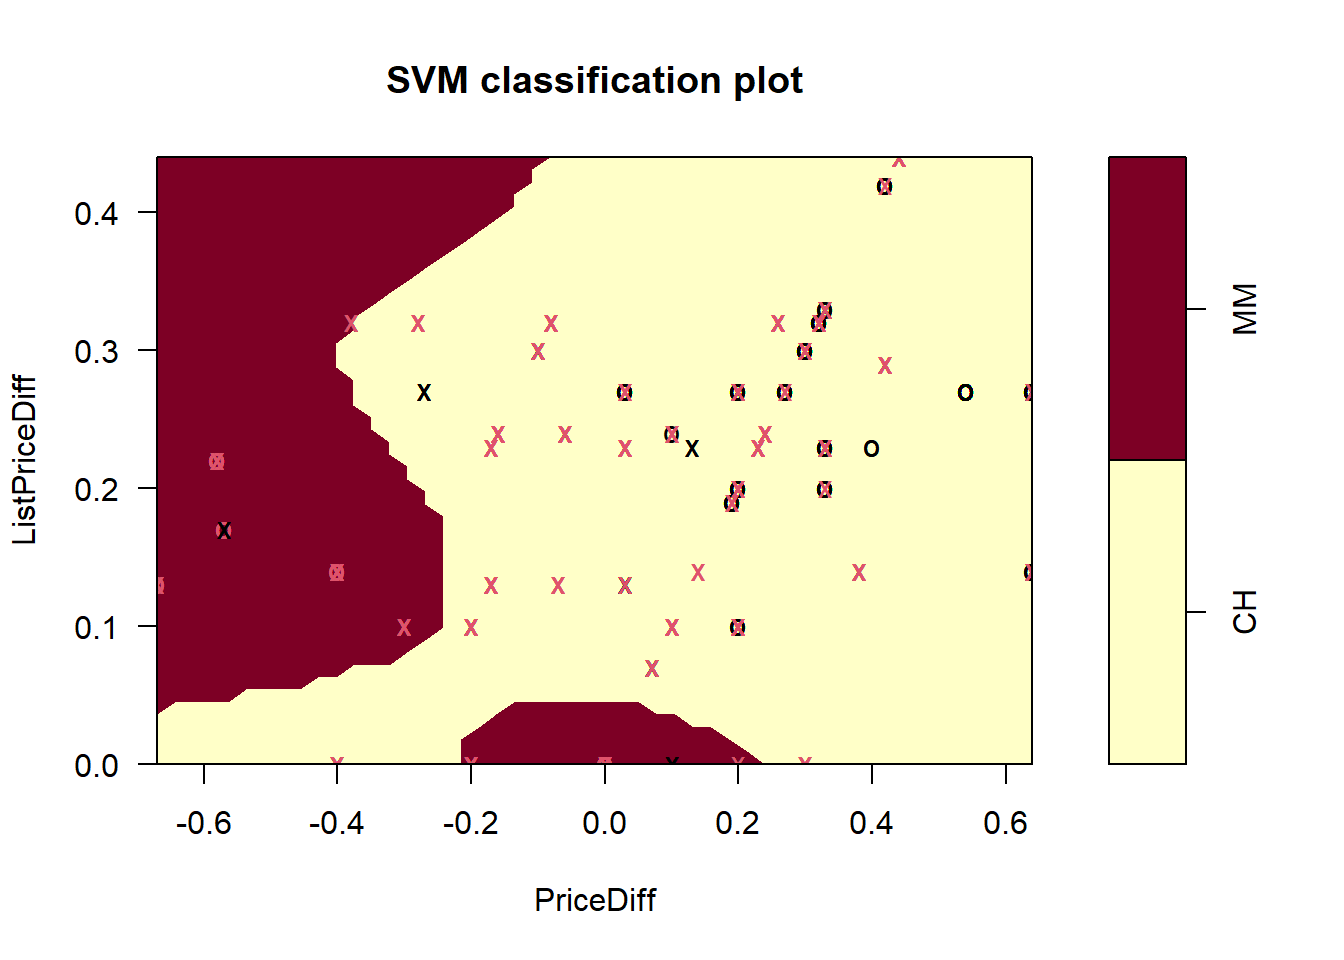
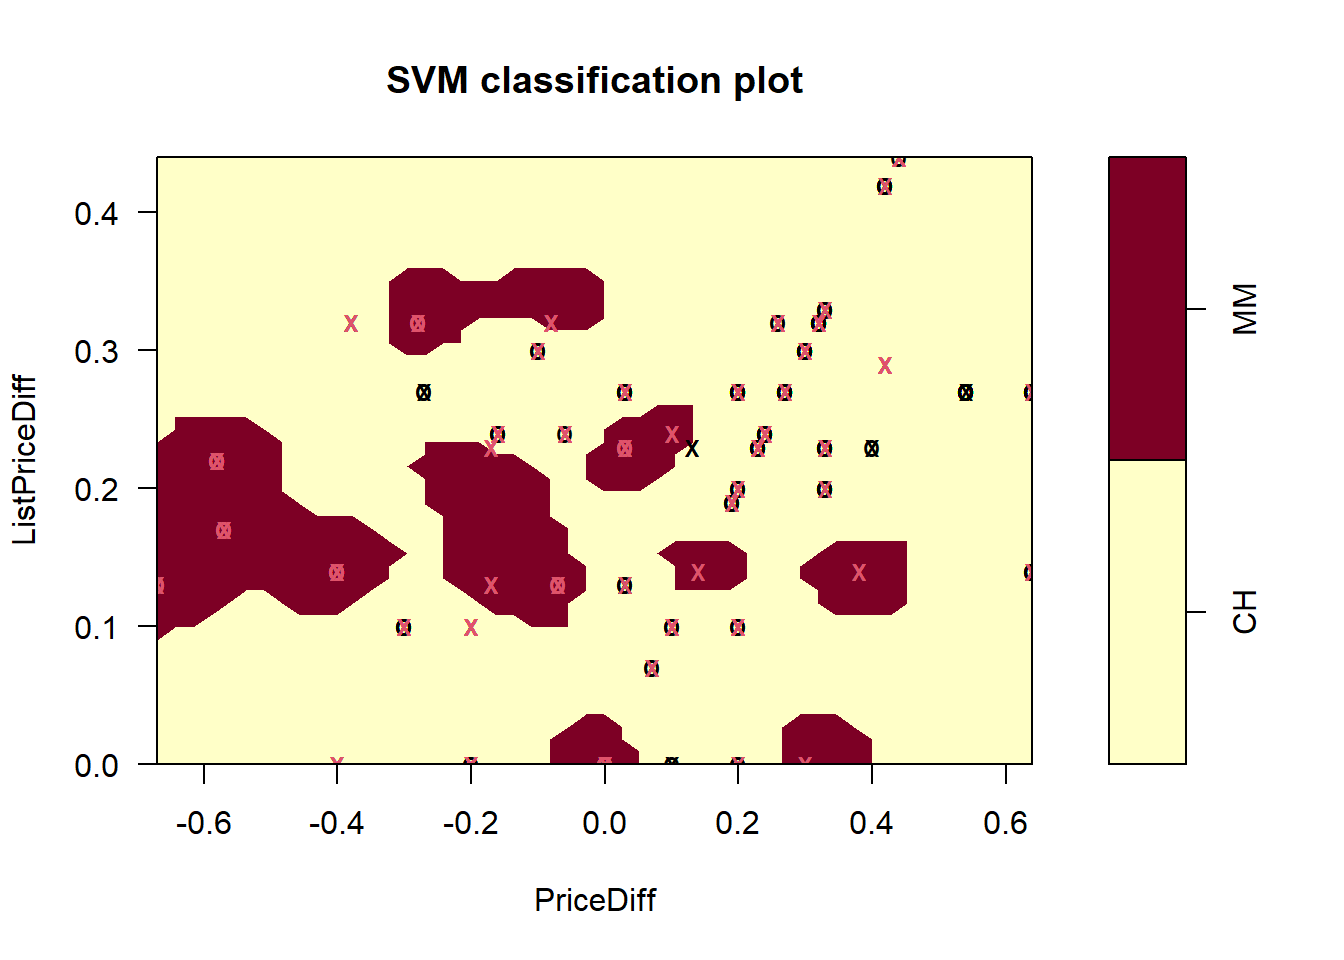
DMML_lab5

diff --git a/docs/exercise-1-orange-juice-dataset.html b/docs/exercise-1-orange-juice-dataset.html
@@ -1685,8 +1685,13 @@ ListPriceDiff
 </table>
 </div>
 <ol start="2" style="list-style-type: lower-alpha">
-<li>How many observations are there in the CH class and MM class</li>
+<li>How many observations are there in the CH class and MM class?</li>
 </ol>
+<ul>
+<li>The number of observations in the CH class = <input class='webex-solveme nospaces' size='3' data-answer='["653"]'/>.</li>
+<li>The number of observations in the MM class = <input class='webex-solveme nospaces' size='3' data-answer='["417"]'/>.</li>
+</ul>
+<p>The class distribution is not perfectly balanced, so we need to be more careful in selecting the evaluation measures later.</p>
 <ol start="2" style="list-style-type: decimal">
 <li>Use <code>ggplot</code> or <code>ggpairs</code> to visualise numerical variables, answering questions such as which variables may be useful in predicting the type of orange juice purchased by the customer, any outlier/extreme observations.</li>
 </ol>
@@ -1792,7 +1797,7 @@ Solution
 <div class="sourceCode" id="cb21"><pre class="sourceCode r"><code class="sourceCode r"><span id="cb21-1"><a href="exercise-1-orange-juice-dataset.html#cb21-1" aria-hidden="true" tabindex="-1"></a>Model_RBF <span class="ot">&lt;-</span> <span class="fu">svm</span>(Purchase<span class="sc">~</span>PriceDiff<span class="sc">+</span>ListPriceDiff, OJ, <span class="at">type=</span><span class="st">&quot;C-classification&quot;</span>, <span class="at">kernel=</span><span class="st">&quot;radial&quot;</span>, <span class="at">gamma=</span><span class="fl">0.1</span>)</span>
 <span id="cb21-2"><a href="exercise-1-orange-juice-dataset.html#cb21-2" aria-hidden="true" tabindex="-1"></a><span class="fu">plot</span>(Model_RBF, OJ, ListPriceDiff<span class="sc">~</span>PriceDiff)</span></code></pre></div>
 <p><img src="main_files/figure-html/unnamed-chunk-14-1.png" width="672" /></p>
-<div class="sourceCode" id="cb22"><pre class="sourceCode r"><code class="sourceCode r"><span id="cb22-1"><a href="exercise-1-orange-juice-dataset.html#cb22-1" aria-hidden="true" tabindex="-1"></a>Model_RBF2 <span class="ot">&lt;-</span> <span class="fu">svm</span>(Purchase<span class="sc">~</span>PriceDiff<span class="sc">+</span>ListPriceDiff, OJ, <span class="at">type=</span><span class="st">&quot;C-classification&quot;</span>, <span class="at">kernel=</span><span class="st">&quot;radial&quot;</span>, <span class="at">degree=</span><span class="dv">10</span>)</span>
+<div class="sourceCode" id="cb22"><pre class="sourceCode r"><code class="sourceCode r"><span id="cb22-1"><a href="exercise-1-orange-juice-dataset.html#cb22-1" aria-hidden="true" tabindex="-1"></a>Model_RBF2 <span class="ot">&lt;-</span> <span class="fu">svm</span>(Purchase<span class="sc">~</span>PriceDiff<span class="sc">+</span>ListPriceDiff, OJ, <span class="at">type=</span><span class="st">&quot;C-classification&quot;</span>, <span class="at">kernel=</span><span class="st">&quot;radial&quot;</span>, <span class="at">gamma=</span><span class="dv">10</span>)</span>
 <span id="cb22-2"><a href="exercise-1-orange-juice-dataset.html#cb22-2" aria-hidden="true" tabindex="-1"></a><span class="fu">plot</span>(Model_RBF2, OJ, ListPriceDiff<span class="sc">~</span>PriceDiff)</span></code></pre></div>
 <p><img src="main_files/figure-html/unnamed-chunk-14-2.png" width="672" /></p>
 </div>
@@ -1812,12 +1817,17 @@ Solution
 <span id="cb23-2"><a href="exercise-1-orange-juice-dataset.html#cb23-2" aria-hidden="true" tabindex="-1"></a>n <span class="ot">&lt;-</span> <span class="fu">nrow</span>(OJ)</span>
 <span id="cb23-3"><a href="exercise-1-orange-juice-dataset.html#cb23-3" aria-hidden="true" tabindex="-1"></a>train.idx <span class="ot">&lt;-</span> <span class="fu">sample</span>(n, <span class="fu">round</span>(n<span class="sc">*</span><span class="fl">0.75</span>))</span>
 <span id="cb23-4"><a href="exercise-1-orange-juice-dataset.html#cb23-4" aria-hidden="true" tabindex="-1"></a>train <span class="ot">&lt;-</span> OJ[train.idx,]</span>
-<span id="cb23-5"><a href="exercise-1-orange-juice-dataset.html#cb23-5" aria-hidden="true" tabindex="-1"></a>test <span class="ot">&lt;-</span> OJ[<span class="sc">-</span>train.idx]</span></code></pre></div>
+<span id="cb23-5"><a href="exercise-1-orange-juice-dataset.html#cb23-5" aria-hidden="true" tabindex="-1"></a>test <span class="ot">&lt;-</span> OJ[<span class="sc">-</span>train.idx,]</span></code></pre></div>
 </div>
 <p><br></p>
 <p>SVM is scale-invariant and therefore it is important to standardise the data first; here, standardisation is only applied to numerical variables.</p>
 <div class="sourceCode" id="cb24"><pre class="sourceCode r"><code class="sourceCode r"><span id="cb24-1"><a href="exercise-1-orange-juice-dataset.html#cb24-1" aria-hidden="true" tabindex="-1"></a>numerical_vars <span class="ot">&lt;-</span> <span class="fu">sapply</span>(OJ,is.numeric) <span class="co">#identify numerical variables</span></span>
-<span id="cb24-2"><a href="exercise-1-orange-juice-dataset.html#cb24-2" aria-hidden="true" tabindex="-1"></a>OJ[,numerical_vars] <span class="ot">&lt;-</span> <span class="fu">apply</span>(OJ[,numerical_vars],<span class="dv">2</span>,scale)</span></code></pre></div>
+<span id="cb24-2"><a href="exercise-1-orange-juice-dataset.html#cb24-2" aria-hidden="true" tabindex="-1"></a>var.mean <span class="ot">&lt;-</span> <span class="fu">apply</span>(train[,numerical_vars],<span class="dv">2</span>,mean) </span>
+<span id="cb24-3"><a href="exercise-1-orange-juice-dataset.html#cb24-3" aria-hidden="true" tabindex="-1"></a>var.sd   <span class="ot">&lt;-</span> <span class="fu">apply</span>(train[,numerical_vars],<span class="dv">2</span>,sd)</span>
+<span id="cb24-4"><a href="exercise-1-orange-juice-dataset.html#cb24-4" aria-hidden="true" tabindex="-1"></a></span>
+<span id="cb24-5"><a href="exercise-1-orange-juice-dataset.html#cb24-5" aria-hidden="true" tabindex="-1"></a><span class="co"># standardise training and test sets</span></span>
+<span id="cb24-6"><a href="exercise-1-orange-juice-dataset.html#cb24-6" aria-hidden="true" tabindex="-1"></a>train[,numerical_vars] <span class="ot">&lt;-</span><span class="fu">t</span>(<span class="fu">apply</span>(train[,numerical_vars], <span class="dv">1</span>, <span class="cf">function</span>(x) (x<span class="sc">-</span>var.mean)<span class="sc">/</span>var.sd))</span>
+<span id="cb24-7"><a href="exercise-1-orange-juice-dataset.html#cb24-7" aria-hidden="true" tabindex="-1"></a>test[,numerical_vars] <span class="ot">&lt;-</span><span class="fu">t</span>(<span class="fu">apply</span>(test[,numerical_vars], <span class="dv">1</span>, <span class="cf">function</span>(x) (x<span class="sc">-</span>var.mean)<span class="sc">/</span>var.sd))</span></code></pre></div>
 <p>Our initial exploratory analysis suggests that it is unlikely to separate the class by using a linear decision boundary. Therefore, we focus on polynomial kernel and RBF kernel for our subsequent analysis.</p>
 <ol start="9" style="list-style-type: decimal">
 <li>Use <code>tune</code> or <code>tune.svm</code> to select the optimal combinations of <code>cost</code> and <code>degree</code> for polynomial kernel and <code>cost</code> and <code>gamma</code> for the RBF kernel.</li>
@@ -1917,10 +1927,20 @@ Solution
 <ol start="10" style="list-style-type: decimal">
 <li>Build an SVM using the optimal kernel and parameters found in the above question and report the performance on test set.</li>
 </ol>
-<div class="sourceCode" id="cb29"><pre class="sourceCode r"><code class="sourceCode r"><span id="cb29-1"><a href="exercise-1-orange-juice-dataset.html#cb29-1" aria-hidden="true" tabindex="-1"></a>gamma <span class="ot">&lt;-</span> SVM_RBF<span class="sc">$</span>best.parameters[<span class="dv">1</span>]</span>
-<span id="cb29-2"><a href="exercise-1-orange-juice-dataset.html#cb29-2" aria-hidden="true" tabindex="-1"></a>cost <span class="ot">&lt;-</span> SVM_RBF<span class="sc">$</span>best.parameters[<span class="dv">2</span>]</span>
-<span id="cb29-3"><a href="exercise-1-orange-juice-dataset.html#cb29-3" aria-hidden="true" tabindex="-1"></a>SVM_final <span class="ot">&lt;-</span> <span class="fu">svm</span>(Purchase<span class="sc">~</span>PriceDiff<span class="sc">+</span>ListPriceDiff, OJ, <span class="at">type=</span><span class="st">&quot;C-classification&quot;</span>, <span class="at">kernel=</span><span class="st">&quot;radial&quot;</span>, <span class="at">degree=</span><span class="dv">10</span>)</span>
-<span id="cb29-4"><a href="exercise-1-orange-juice-dataset.html#cb29-4" aria-hidden="true" tabindex="-1"></a><span class="co"># summary(SVM_RBF)</span></span></code></pre></div>
+<div class="webex-solution">
+<button>
+Solution
+</button>
+<div class="sourceCode" id="cb29"><pre class="sourceCode r"><code class="sourceCode r"><span id="cb29-1"><a href="exercise-1-orange-juice-dataset.html#cb29-1" aria-hidden="true" tabindex="-1"></a>gamma.opt <span class="ot">&lt;-</span> SVM_RBF<span class="sc">$</span>best.parameters[<span class="dv">1</span>]</span>
+<span id="cb29-2"><a href="exercise-1-orange-juice-dataset.html#cb29-2" aria-hidden="true" tabindex="-1"></a>cost.opt <span class="ot">&lt;-</span> SVM_RBF<span class="sc">$</span>best.parameters[<span class="dv">2</span>]</span>
+<span id="cb29-3"><a href="exercise-1-orange-juice-dataset.html#cb29-3" aria-hidden="true" tabindex="-1"></a>SVM_final <span class="ot">&lt;-</span> <span class="fu">svm</span>(Purchase<span class="sc">~</span>PriceDiff<span class="sc">+</span>ListPriceDiff, OJ, <span class="at">type=</span><span class="st">&quot;C-classification&quot;</span>, <span class="at">kernel=</span><span class="st">&quot;radial&quot;</span>, <span class="at">gamma=</span>gamma.opt, <span class="at">cost=</span>cost.opt)</span>
+<span id="cb29-4"><a href="exercise-1-orange-juice-dataset.html#cb29-4" aria-hidden="true" tabindex="-1"></a>test.pred <span class="ot">&lt;-</span> <span class="fu">predict</span>(SVM_final,test)</span>
+<span id="cb29-5"><a href="exercise-1-orange-juice-dataset.html#cb29-5" aria-hidden="true" tabindex="-1"></a><span class="fu">table</span>(test<span class="sc">$</span>Purchase,test.pred)</span></code></pre></div>
+<pre><code>##     test.pred
+##       CH  MM
+##   CH 123  43
+##   MM  56  46</code></pre>
+</div>
 
 </div>
 </div>
